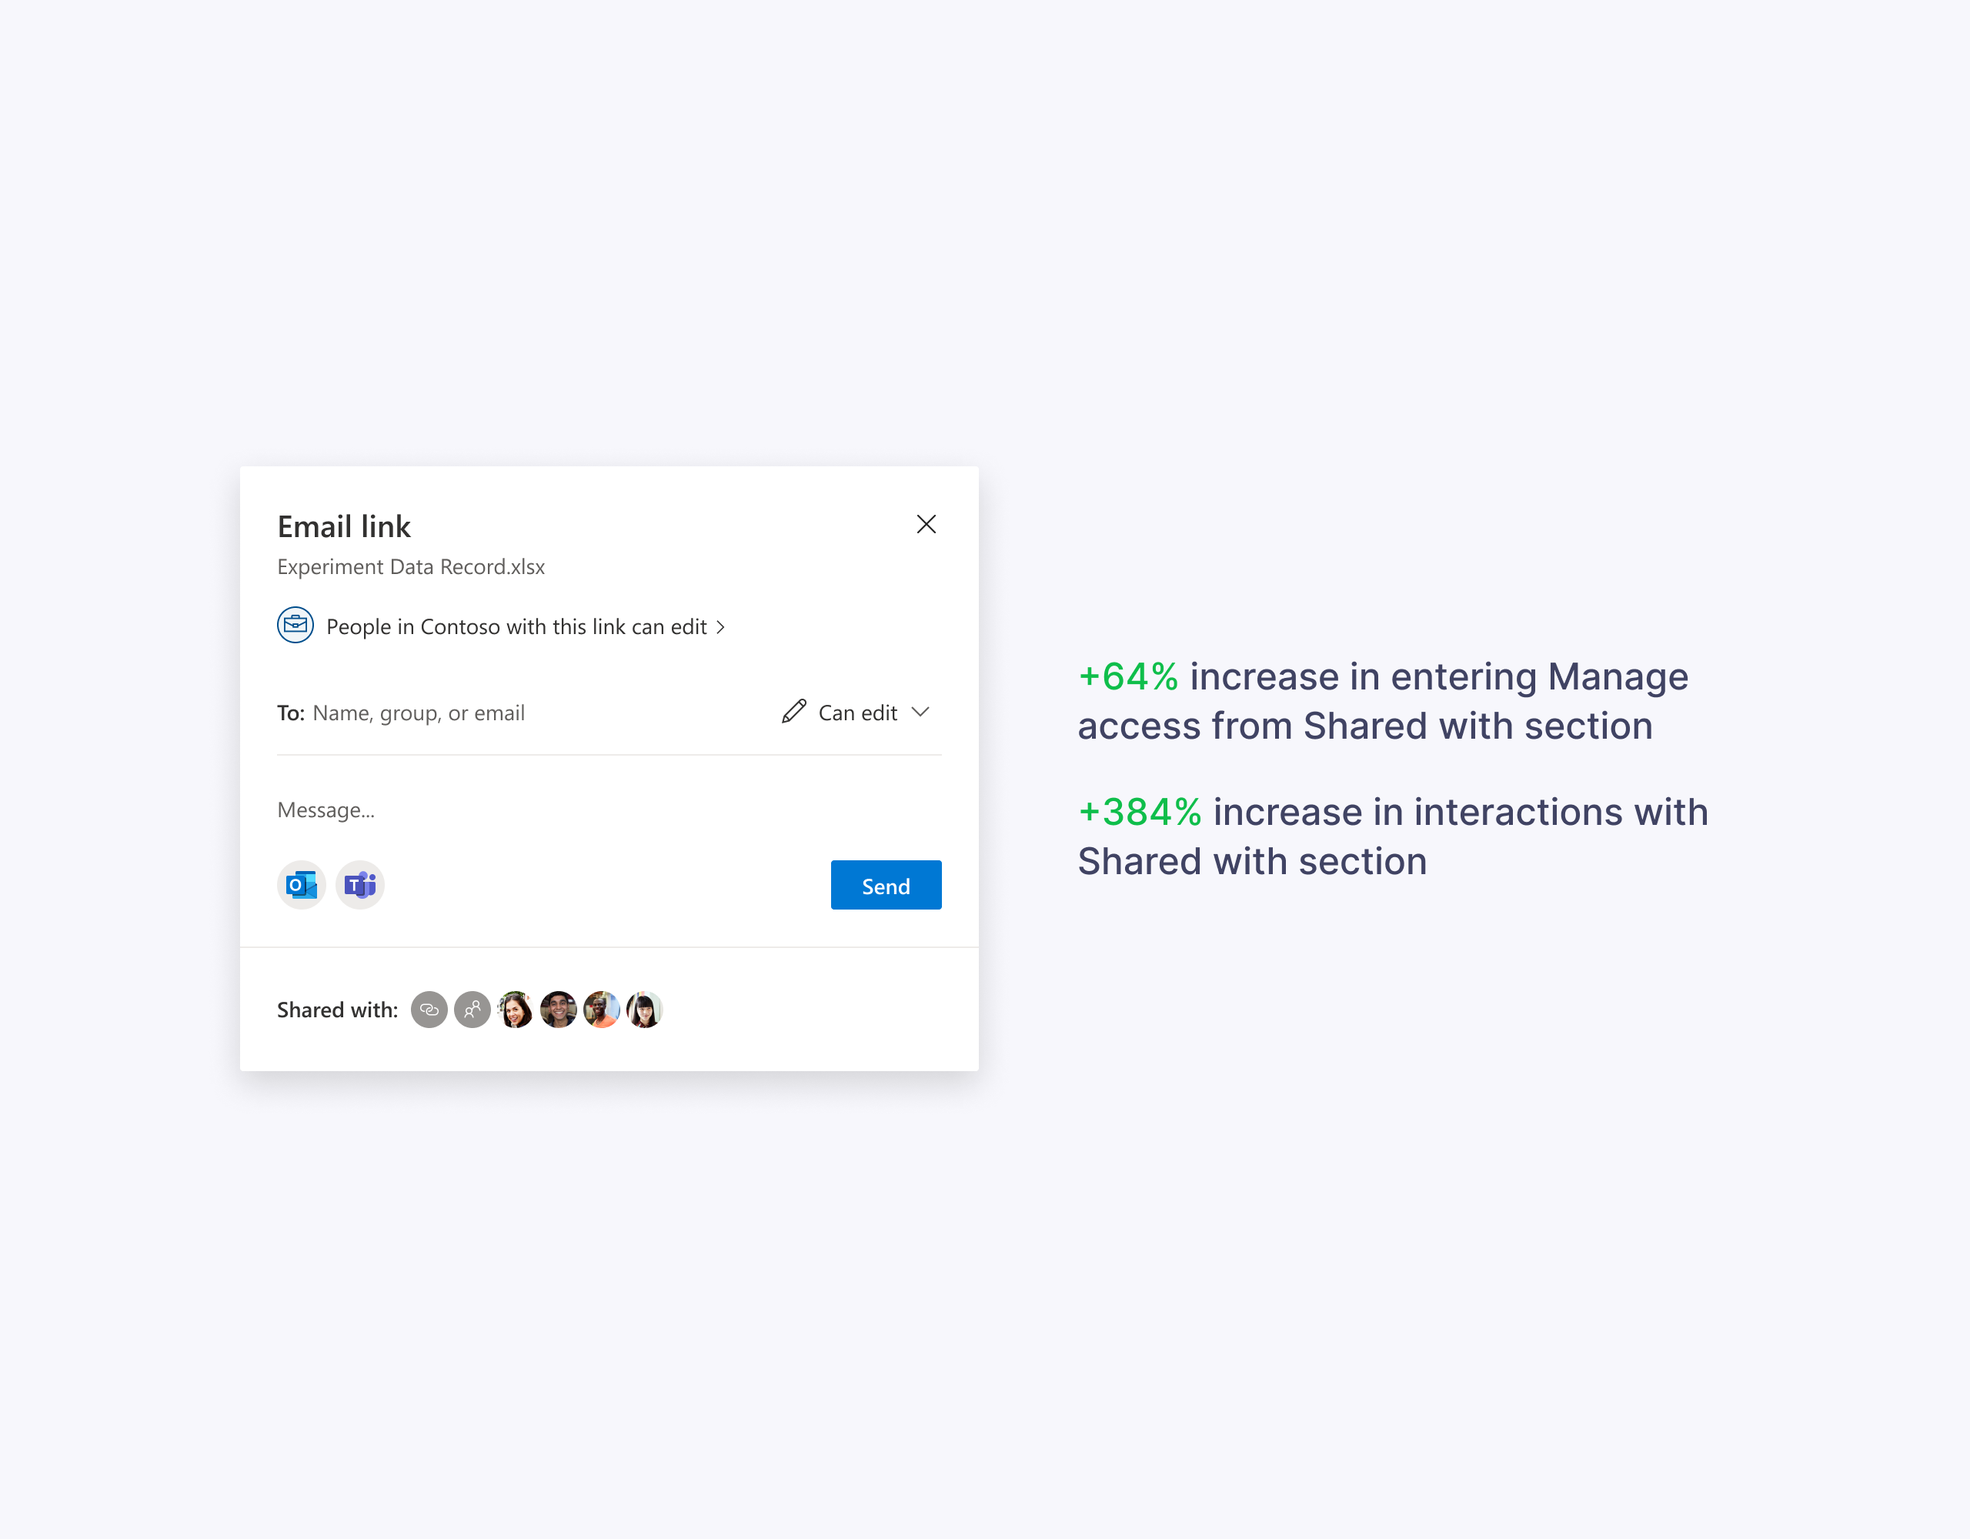
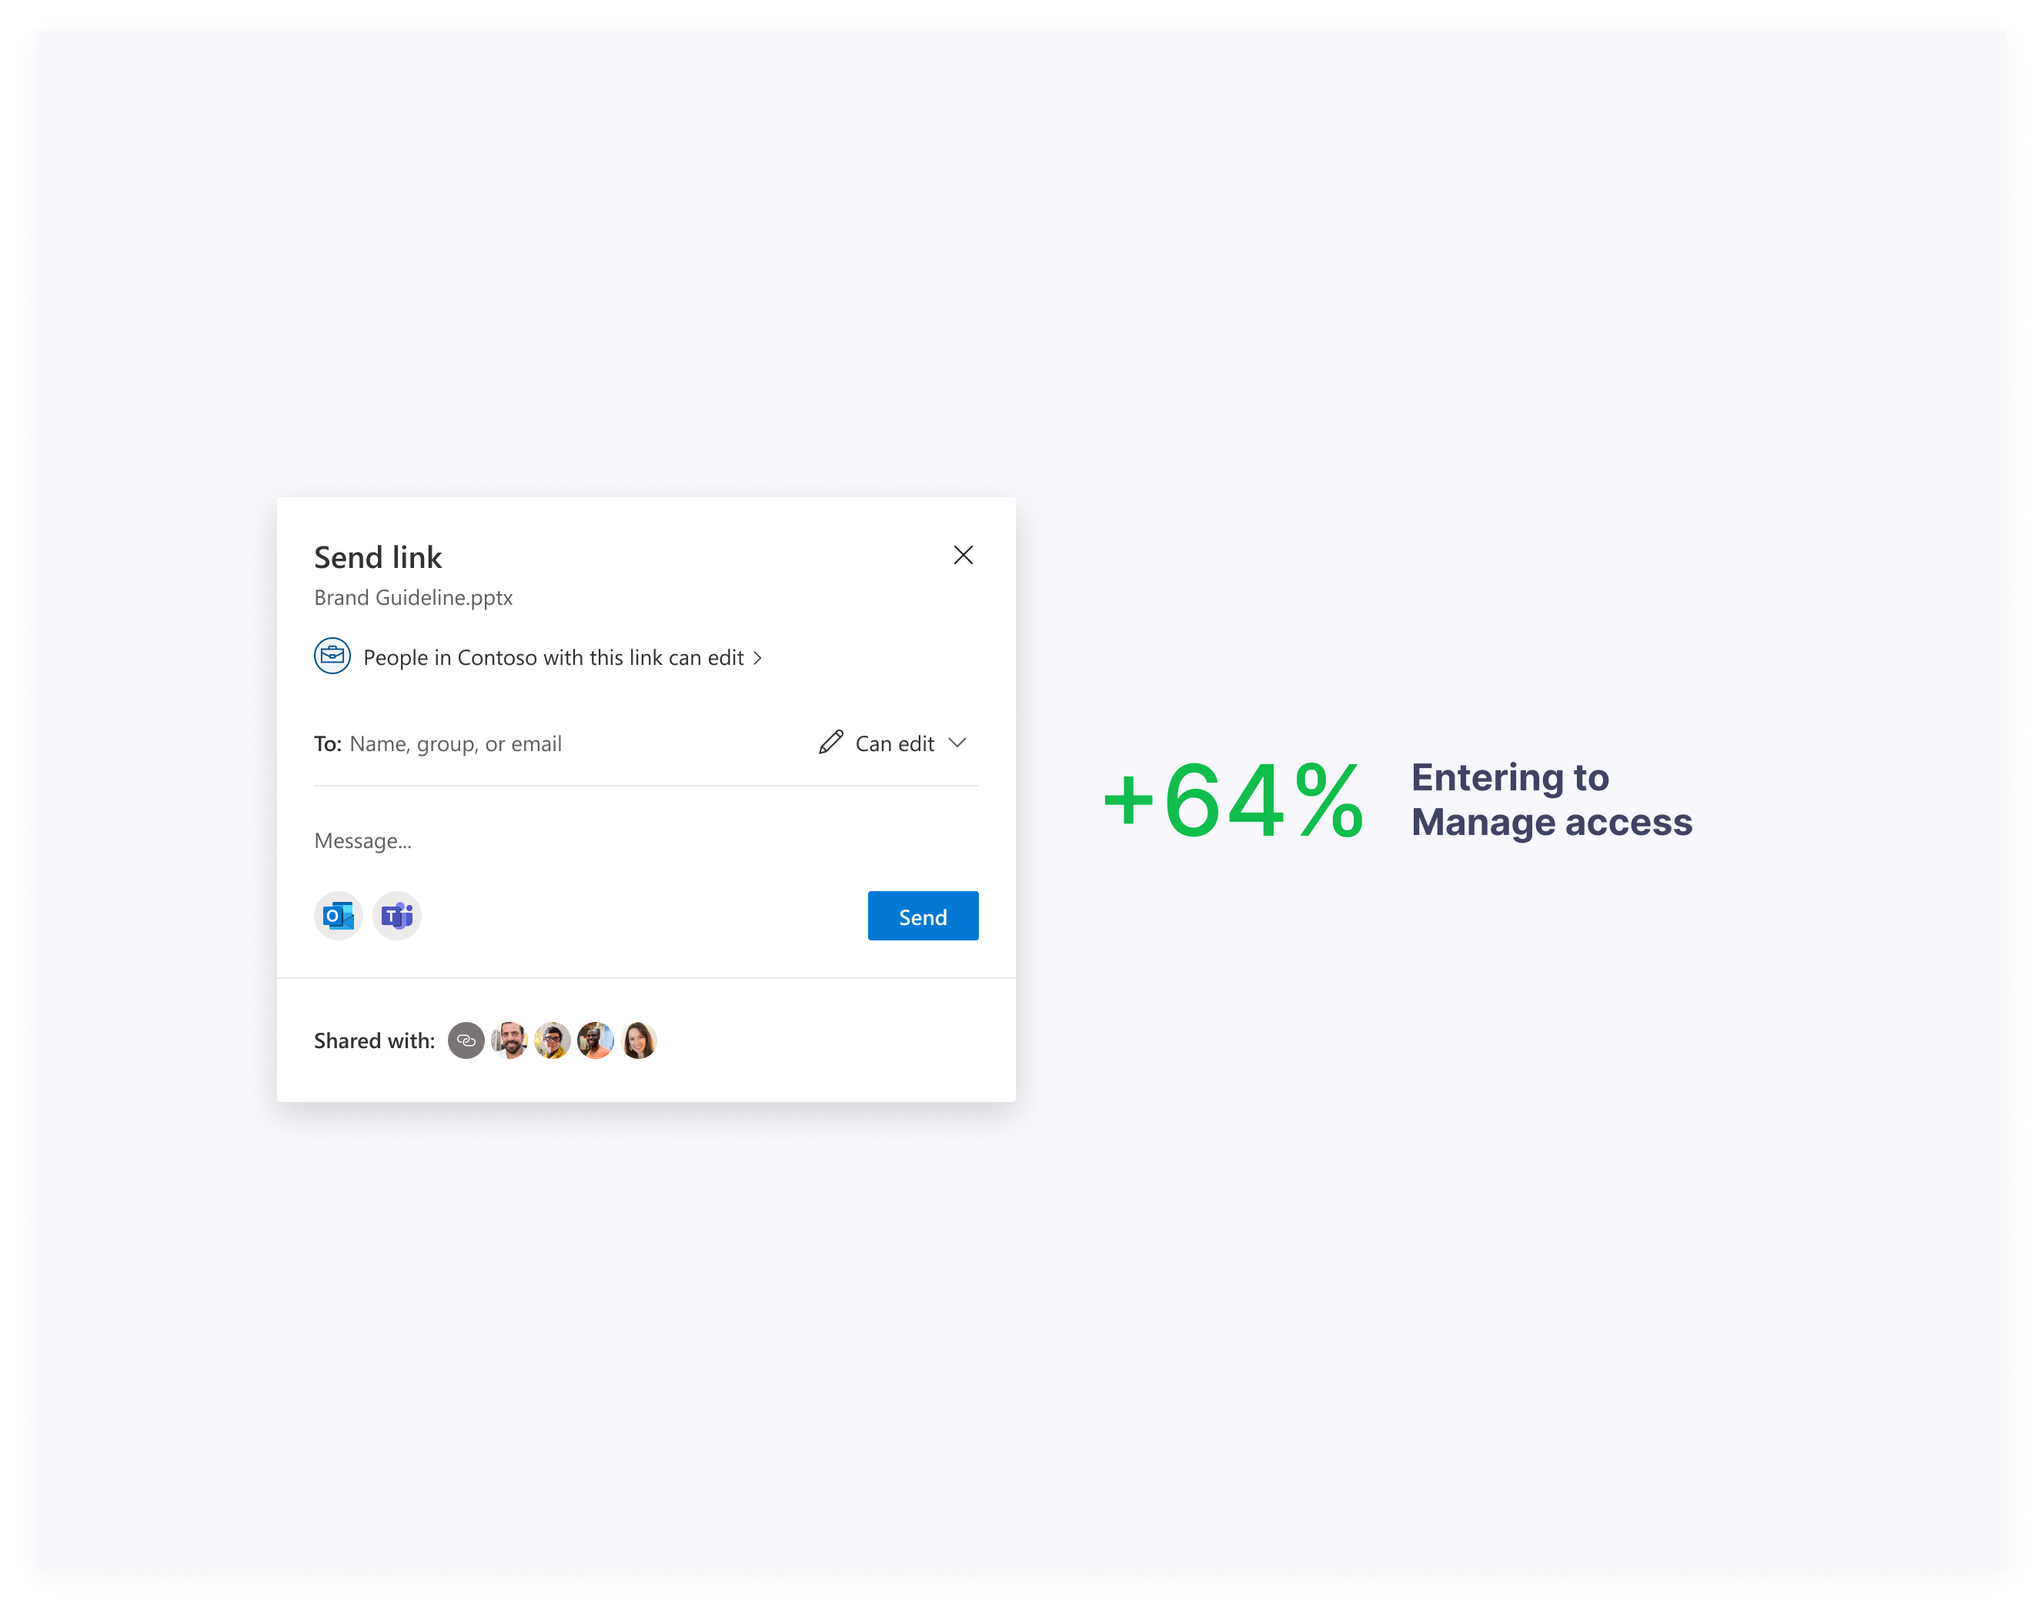
Copy updated

diff --git a/pages/sharing-dialog.html b/pages/sharing-dialog.html
@@ -16,52 +16,55 @@
     <div class="nav">
       <a href="../index.html">&larr;</a>
       <h1>OneDrive Sharing <br>Dialog redesign</h1>
-      <p>How might we improve sharing experience by addressing our customers’ concerns</p>
+      <p>Objective: Improving sharing experience by addressing our customers’ concerns</p>
     </div>
   </header>
   <main>
     <div class="project">
-      <h2>Problems with the previous version</h2>
-      <p>OneDrive owns the Sharing Dialog. It appears in more than 40 endpoints across Microsoft products. In 2019 our research team conducted a benchmark study and compared OneDrive’s sharing experience to Google Drive and Box.</p>
-      <img src="../images/sharing/sharing35.png" alt="Sharing dialog">
+      <h2>Contribution</h2>
+      <p>I led the sharing experience redesign initiative across the OneDrive web and mobile entry points, in collaboration with a cross-functional team of UX designers, project managers, and engineers, to enhance its features.</p>
+      <h2>Problem</h2>
+      <p>OneDrive owns the Sharing Dialog. It appears in more than 40 endpoints across Microsoft365 family of products. In 2019 our research team conducted a benchmark study and compared OneDrive’s sharing experience to Google Drive and Box.</p>
       <img src="../images/sharing/sharing1.png" alt="Sharing dialog">
       <p>Even though the overall functionality received a high score, the OneDrive’s sharing experience scored the lowest. We identified several design drawbacks such as inconsistent headers and placement, hidden Role Selector, and unbalanced width.</p>
-      <img src="../images/sharing/sharing2.png" alt="Sharing dialog">
-      <img src="../images/sharing/sharing3.png" alt="Sharing dialog">
-      <img src="../images/sharing/sharing4.png" alt="Sharing dialog">
-      <img src="../images/sharing/sharing5.png" alt="Sharing dialog">
-      <img src="../images/sharing/sharing6.png" alt="Sharing dialog">
+      <!-- <img src="../images/sharing/sharing2.png" alt="Sharing dialog"> -->
+      <!-- <img src="../images/sharing/sharing4.png" alt="Sharing dialog"> -->
+      <!-- <img src="../images/sharing/sharing5.png" alt="Sharing dialog"> -->
+      <!-- <img src="../images/sharing/sharing6.png" alt="Sharing dialog"> -->
       <img src="../images/sharing/sharing7.png" alt="Sharing dialog">
       <p>Users also couldn’t associate link type with the “Copy link” experience.</p>
-      <h2>Brainstorming and design explorations</h2>
-      <p>We organized a series of brainstorming sessions with our partner teams from Office 365. After many meetings and design iterations, we settled on a version that addressed all these design problems.</p>
+      <h2>Process</h2>
+      <p>We organized a series of brainstorming sessions with our partner teams from Microsoft365. After many meetings and design iterations, we settled on a version that addressed all these design problems.</p>
       <img src="../images/sharing/sharing8.png" alt="Sharing dialog">
       <img src="../images/sharing/sharing9.png" alt="Sharing dialog">
       <p>The main idea of the new design was to split user flow into a series of simple decisions (“Email link” plus “Copy link” and other share targets) instead of complicating the sharing dialog surface with all these options.</p>
       <img src="../images/sharing/sharing10.png" alt="Sharing dialog">
+      <p>We made consistent headers across all the endpoints, brought the Role selector into the sharing dialog surface, and increased the width to give the elements a breath.</p>
       <img src="../images/sharing/sharing11.png" alt="Sharing dialog">
-      <p>We made consistent headers across all the endpoints, brought the Role selector into the sharing dialog surface, and increased the width to give the elements a breath. We introduced a combined “Email link” and “Copy link” experience in the list view on office.com and OneDrive since we couldn’t afford the share menu there.</p>
-      <h2>User testing and planning</h2>
+      <p>We introduced a combined “Email link” and “Copy link” experience in the list view on office.com and OneDrive since we couldn’t afford the share menu there.</p>
+      <h2>User testing</h2>
       <p>To test our assumptions and gather qualitative data we conducted two user studies.</p>
       <img src="../images/sharing/sharing27.png" alt="Sharing dialog">
       <img src="../images/sharing/sharing31.png" alt="Sharing dialog">
       <img src="../images/sharing/sharing28.png" alt="Sharing dialog">
-      <img src="../images/sharing/sharing32.png" alt="Sharing dialog">
+      <!-- <img src="../images/sharing/sharing32.png" alt="Sharing dialog"> -->
       <img src="../images/sharing/sharing33.png" alt="Sharing dialog">
+      <h2>Updates</h2>
       <p>The positive feedback reassured our design direction and we planned incremental updates to our current version.</p>
       <img src="../images/sharing/sharing17.png" alt="Sharing dialog">
       <img src="../images/sharing/sharing18.png" alt="Sharing dialog">
       <img src="../images/sharing/sharing19.png" alt="Sharing dialog">
       <img src="../images/sharing/sharing20.png" alt="Sharing dialog">
       <img src="../images/sharing/sharing21.png" alt="Sharing dialog">
-      <img src="../images/sharing/sharing23.png" alt="Sharing dialog">
       <p>This approach allowed us to observe the telemetry and assess our design decisions with quantitative data.</p>
-      <h2>Next steps and concepts</h2>
+      <img src="../images/sharing/sharing35.png" alt="Sharing dialog">
+      <p>As a result, the redesign of the sharing dialog led to a remarkable 34% surge in user engagement and completion of sharing actions. Given that the sharing feature experiences approximately 40 million openings per month, the team's accomplishments are truly impressive.</p>
+      <!-- <h2>Next steps and concepts</h2>
       <p>OneDrive will eventually switch to Fluent icons and look more modern, mobile-friendly, and visually pleasant.</p>
       <img src="../images/sharing/sharing24.png" alt="Sharing dialog">
       <img src="../images/sharing/sharing25.png" alt="Sharing dialog">
       <img src="../images/sharing/sharing26.png" alt="Sharing dialog">
-      <p>Beyond the conservative design, I also explore concepts with more experimental ideas.</p>
+      <p>Beyond the conservative design, I also explore concepts with more experimental ideas.</p> -->
       <p>Thanks for reading!</p>
     </div>
   </main>

diff --git a/pages/manage-access.html b/pages/manage-access.html
@@ -15,13 +15,15 @@
   <header>
     <div class="nav">
       <a href="../index.html">&larr;</a>
-      <h1>Manage Access <br>entry point redesign</h1>
+      <h1>Manage Access entry point redesign</h1>
       <p>How might we improve sharing experience by addressing our customers’ concerns</p>
     </div>
   </header>
   <main>
     <div class="project">
-      <h2>Problems with Manage Access in OneDrive</h2>
+      <h2>Contribution</h2>
+      <p>I led the sharing experience redesign initiative across the OneDrive web and mobile entry points, in collaboration with a cross-functional team of UX designers, project managers, and engineers, to enhance its features, including Manage Access entry point.</p>
+      <h2>Problems</h2>
       <p>OneDrive sharing links technology is powerful, which allows people to scope the audience based on their affiliation to a company, groups, access history, etc. That brings complexity into managing access experience and often causes frustration. </p>
       <img src="../images/manage-access/manage-access13.png" alt="Manage Access entry point design">
       <img src="../images/manage-access/manage-access1.png" alt="Manage Access entry point design">
@@ -30,22 +32,25 @@
       <img src="../images/manage-access/manage-access3.png" alt="Manage Access entry point design">
       <img src="../images/manage-access/manage-access4.png" alt="Manage Access entry point design">
       <p>Besides that, the Manage access entry point in the old experience was hidden inside the “more” button and the details pane.</p>
-      <h2>Explorations and user testing</h2>
+      <h2>Explorations</h2>
       <p>During the Sharing dialog brainstorming sessions and design sprints with our Office 365 partners, we also explored how to improve the Manage access entry point experience. </p>
       <img src="../images/manage-access/manage-access5.png" alt="Manage Access entry point design">
       <img src="../images/manage-access/manage-access6.png" alt="Manage Access entry point design">
       <p>After many iterations, we finalized a couple of ideas and organized an experience wall review with engineers. We received feedback that the face-piles inside the share menu are not feasible due to technical limitations, so we iterated on this idea and transformed it into a simple Manage Access menu item. When the design was settled, we planned a user testing research study.</p>
+      <h2>User testing</h2>
+      <p>To test our assumptions and gather qualitative data we conducted the Shared with section user study.</p>
       <img src="../images/manage-access/manage-access7.png" alt="Manage Access entry point design">
-      <h2>Design implementation and telemetry</h2>
+      <h2>Implementation</h2>
       <p>The positive feedback reassured our assumptions with qualitative data, and we planned implementation of this design into our production cycle.</p>
       <img src="../images/manage-access/manage-access11.png" alt="Manage Access entry point design">
       <img src="../images/manage-access/manage-access8.png" alt="Manage Access entry point design">
       <img src="../images/manage-access/manage-access9.png" alt="Manage Access entry point design">
       <img src="../images/manage-access/manage-access10.png" alt="Manage Access entry point design">
       <img src="../images/manage-access/manage-access12.png" alt="Manage Access entry point design">
-      <p>The quantitative data shows us that with the introduction of the new “Shared with” experience, people are more intentional about who and whom they share with and feel more confident.</p>
+      <p>As a result, the introduction of the new entry point led to a remarkable 64% surge in user engagement. Given that the sharing feature experiences approximately 40 million openings per month, the team's accomplishments are truly impressive.</p>
+      <p>The quantitative data showed that people were more intentional about who and whom they share with and felt more confident.</p>
       <h2>Next steps</h2>
-      <p>Soon, we will launch our new Manage access experience with a people-centric design and observe how this change affects the sharing dialog metrics. </p>
+      <p>Soon, we will launch our new Manage access experience with a people-centric design and observe how this change affects the sharing dialog metrics as a whole.</p>
       <p>Thanks for reading!</p>
     </div>
   </main>

diff --git a/pages/link-settings.html b/pages/link-settings.html
@@ -16,12 +16,14 @@
     <div class="nav">
       <a href="../index.html">&larr;</a>
       <h1>OneDrive Link <br>Settings redesign</h1>
-      <p>How might we improve sharing experience by helping our customers with applying the right share settings</p>
+      <p>Objective: Improving sharing experience by helping our customers with applying the right share settings</p>
     </div>
   </header>
   <main>
     <div class="project">
-      <h2>Link settings user feedback</h2>
+      <h2>Contribution</h2>
+      <p>I led the sharing experience redesign initiative across the OneDrive web and mobile entry points, in collaboration with a cross-functional team of UX designers, project managers, and engineers, to enhance its features, including Link Settings.</p>
+      <h2>User feedback</h2>
       <p>OneDrive’s Link Settings Dialog allows to scope the audience, change editorial permissions and apply additional security features like “Block download”, “Expiration  date”, etc. After conducting the benchmark study, we identified several drawbacks in the current design.</p>
       <img src="../images/link-settings/link-settings19.png" alt="Dialog">
       <img src="../images/link-settings/link-settings1.png" alt="Dialog">
@@ -30,7 +32,7 @@
       <img src="../images/link-settings/link-settings4.png" alt="Dialog">
       <img src="../images/link-settings/link-settings5.png" alt="Dialog">
       <p>The “Link settings” title wasn’t clear, especially for customers coming from other cloud products; the scope names were “confusing”; people had difficulties choosing between them.</p>
-      <h2>Design explorations</h2>
+      <h2>Explorations</h2>
       <p>During the sharing experience brainstorming sessions, we also ran a design sprint to explore how we can improve all the drawbacks.</p>
       <img src="../images/link-settings/link-settings13.png" alt="Dialog">
       <p>We renamed the dialog to “Sharing settings” so users would not associate this experience only with links.</p>
@@ -45,9 +47,10 @@
       <img src="../images/link-settings/link-settings8.png" alt="Dialog">
       <img src="../images/link-settings/link-settings9.png" alt="Dialog">
       <p>Besides that, we designed the seamless external sharing flow when people need to click only once to change link settings from “company” to “specific people.” </p>
-      <h2>User research and iterations</h2>
+      <h2>User research</h2>
       <p>Then we tested our new design conducting a user research study.</p>
       <img src="../images/link-settings/link-settings6.png" alt="Dialog">
+      <h2>Iterations</h2>
       <p>We received split results and organized a wall review with designers from outside the feature team and engineers to find other feasible solutions.</p>
       <img src="../images/link-settings/link-settings14.png" alt="Dialog">
       <img src="../images/link-settings/link-settings17.png" alt="Dialog">

diff --git a/pages/iconography.html b/pages/iconography.html
@@ -2,7 +2,7 @@
 <html lang="en">
 <head>
     <meta charset="UTF-8">
-    <meta name="author" content="Aleksei Zhurankou">
+    <meta name="author" content="Alex Zhurankou">
     <meta name="description" content="Personal portfolio website">
     <meta name="viewport" content="width=device-width, initial-scale=1.0">
     <title>Iconography</title>
@@ -15,12 +15,14 @@
   <header>
     <div class="nav">
       <a href="../index.html">&larr;</a>
-      <h1>eero Icon Set & <br>Iconography guidelines</h1>
-      <p>How might we improve our product by creating clear, legible, and consistent Iconography system</p>
+      <h1>eero Icon Set & Iconography guidelines</h1>
+      <p>Objective: Improving eero Insight by creating clear, legible, and consistent Iconography system</p>
     </div>
   </header>
   <main>
     <div class="project">
+      <h2>Contribution</h2>
+      <p>I took the initiative to create an icon set for eero Insight and led the effort of establishing iconography guidelines.</p>
       <h2>Drawbacks</h2>
       <p>That was the state of icon assets when I joined eero team.
 The main problem they had was the lack of the ownership and Iconography guidelines.</p>

diff --git a/pages/illustrations.html b/pages/illustrations.html
@@ -2,7 +2,7 @@
 <html lang="en">
 <head>
     <meta charset="UTF-8">
-    <meta name="author" content="Aleksei Zhurankou">
+    <meta name="author" content="Alex Zhurankou">
     <meta name="description" content="Personal portfolio website">
     <meta name="viewport" content="width=device-width, initial-scale=1.0">
     <title>Illustration</title>
